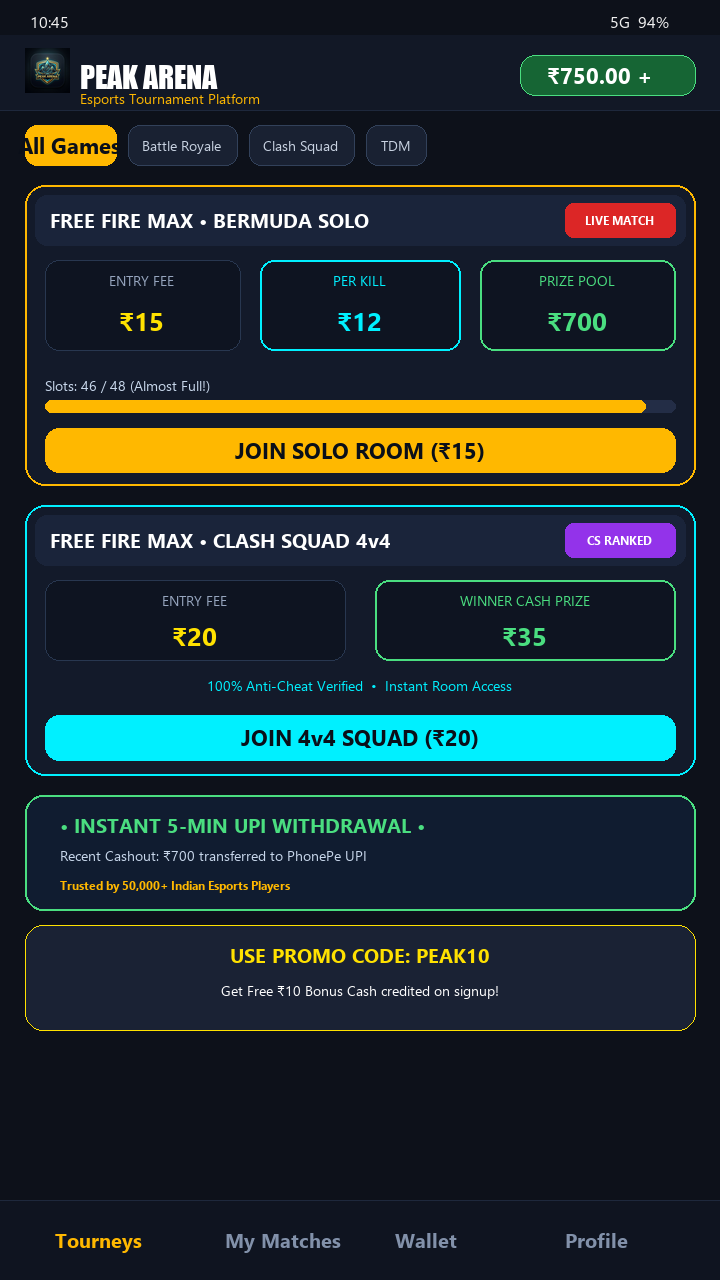
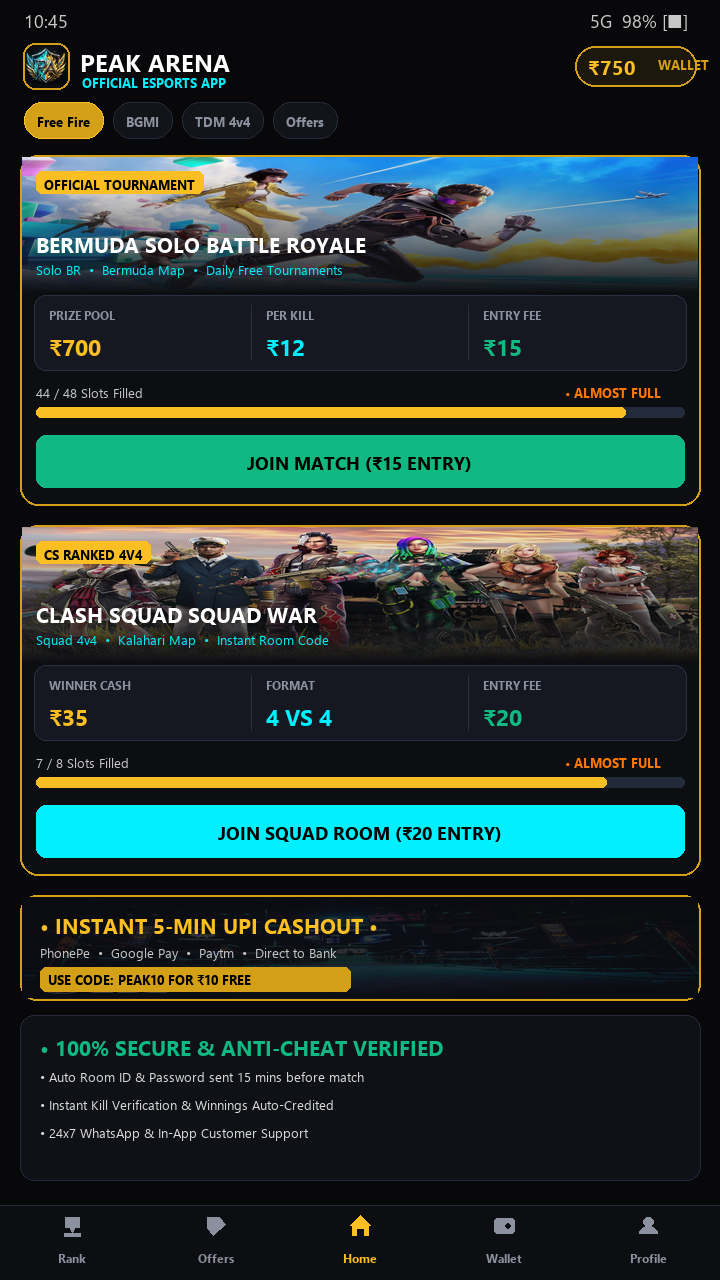
Match app screen 1:1 with real Flutter app assets and enforce edge-to-edge vertical gameplay with zero bars

diff --git a/generate_real_app_screen.py b/generate_real_app_screen.py
@@ -1,0 +1,225 @@
+import os
+from PIL import Image, ImageDraw, ImageFont
+
+BASE_DIR = os.path.dirname(os.path.abspath(__file__))
+ASSETS_DIR = os.path.join(BASE_DIR, "assets")
+OUTPUT_PATH = os.path.join(ASSETS_DIR, "peak_arena_app_screen.png")
+
+W, H = 720, 1280
+img = Image.new("RGBA", (W, H), (8, 8, 10, 255))
+draw = ImageDraw.Draw(img)
+
+font_dir = "C:/Windows/Fonts"
+font_bold = os.path.join(font_dir, "segoeuib.ttf") if os.path.exists(os.path.join(font_dir, "segoeuib.ttf")) else None
+font_reg = os.path.join(font_dir, "segoeui.ttf") if os.path.exists(os.path.join(font_dir, "segoeui.ttf")) else None
+
+if font_bold and font_reg:
+    f_status = ImageFont.truetype(font_reg, 18)
+    f_title = ImageFont.truetype(font_bold, 24)
+    f_wallet = ImageFont.truetype(font_bold, 20)
+    f_badge = ImageFont.truetype(font_bold, 13)
+    f_card_title = ImageFont.truetype(font_bold, 21)
+    f_label = ImageFont.truetype(font_bold, 12)
+    f_val_large = ImageFont.truetype(font_bold, 23)
+    f_btn = ImageFont.truetype(font_bold, 18)
+    f_sub = ImageFont.truetype(font_reg, 13)
+    f_nav = ImageFont.truetype(font_bold, 12)
+else:
+    f_status = f_title = f_wallet = f_badge = f_card_title = f_label = f_val_large = f_btn = f_sub = f_nav = ImageFont.load_default()
+
+# 1. Status Bar
+draw.text((24, 8), "10:45", fill=(200, 200, 200), font=f_status)
+draw.text((W - 130, 8), "5G  98% [■]", fill=(200, 200, 200), font=f_status)
+
+# 2. AppBar (36 - 98)
+logo_path = os.path.join(ASSETS_DIR, "logo.png")
+if os.path.exists(logo_path):
+    logo = Image.open(logo_path).convert("RGBA").resize((44, 44), Image.Resampling.LANCZOS)
+    mask = Image.new("L", (44, 44), 0)
+    ImageDraw.Draw(mask).rounded_rectangle((0, 0, 44, 44), radius=12, fill=255)
+    img.paste(logo, (24, 44), mask)
+    draw.rounded_rectangle([23, 43, 69, 89], radius=12, outline=(212, 160, 23), width=2)
+
+draw.text((80, 46), "PEAK ARENA", fill=(255, 255, 255), font=f_title)
+draw.text((82, 73), "OFFICIAL ESPORTS APP", fill=(0, 240, 255), font=f_badge)
+
+# Wallet pill
+w_box = [W - 145, 46, W - 24, 86]
+draw.rounded_rectangle(w_box, radius=20, fill=(28, 24, 12), outline=(212, 160, 23), width=2)
+draw.text((W - 132, 53), "₹750", fill=(251, 191, 36), font=f_wallet)
+draw.text((W - 62, 55), "WALLET", fill=(212, 160, 23), font=f_badge)
+
+# 3. Game category tabs (104 - 144)
+tabs = [("Free Fire", True), ("BGMI", False), ("TDM 4v4", False), ("Offers", False)]
+tx = 24
+for name, active in tabs:
+    tw = draw.textlength(name, font=f_badge) + 26
+    if active:
+        draw.rounded_rectangle([tx, 102, tx + tw, 138], radius=18, fill=(212, 160, 23), outline=(251, 191, 36), width=1)
+        draw.text((tx + 13, 112), name, fill=(0, 0, 0), font=f_badge)
+    else:
+        draw.rounded_rectangle([tx, 102, tx + tw, 138], radius=18, fill=(18, 20, 26), outline=(35, 43, 58), width=1)
+        draw.text((tx + 13, 112), name, fill=(139, 145, 158), font=f_badge)
+    tx += tw + 10
+
+# Helper to draw Tournament Poster Card
+def draw_tournament_card(card_y, banner_file, badge_txt, title, mode_txt, p1_lbl, p1_val, p1_col, p2_lbl, p2_val, p2_col, p3_lbl, p3_val, p3_col, slots_txt, slots_pct, btn_txt, btn_col):
+    card_h = 350
+    cx1, cy1, cx2, cy2 = 20, card_y, W - 20, card_y + card_h
+    card_w = cx2 - cx1
+
+    # Base card background
+    draw.rounded_rectangle([cx1, cy1, cx2, cy2], radius=18, fill=(13, 14, 18), outline=(212, 160, 23), width=2)
+
+    # Banner image with gradient
+    banner_path = os.path.join(ASSETS_DIR, banner_file)
+    banner_h = 135
+    if os.path.exists(banner_path):
+        banner = Image.open(banner_path).convert("RGBA").resize((card_w - 4, banner_h), Image.Resampling.LANCZOS)
+        grad = Image.new("RGBA", (card_w - 4, banner_h))
+        g_draw = ImageDraw.Draw(grad)
+        for y in range(banner_h):
+            alpha = int(255 * (y / banner_h) ** 1.3)
+            g_draw.line([(0, y), (card_w - 4, y)], fill=(13, 14, 18, alpha))
+        banner = Image.alpha_composite(banner, grad)
+        img.paste(banner, (cx1 + 2, cy1 + 2))
+
+    # Badge on banner
+    bw = draw.textlength(badge_txt, font=f_badge)
+    draw.rounded_rectangle([cx1 + 16, cy1 + 16, cx1 + 32 + bw, cy1 + 38], radius=6, fill=(251, 191, 36))
+    draw.text((cx1 + 24, cy1 + 20), badge_txt, fill=(0, 0, 0), font=f_badge)
+
+    draw.text((cx1 + 16, cy1 + 75), title, fill=(255, 255, 255), font=f_card_title)
+    draw.text((cx1 + 16, cy1 + 105), mode_txt, fill=(0, 240, 255), font=f_sub)
+
+    # 3-Stat Container Box
+    bx1, by1, bx2, by2 = cx1 + 14, cy1 + 140, cx2 - 14, cy1 + 215
+    draw.rounded_rectangle([bx1, by1, bx2, by2], radius=12, fill=(21, 24, 33), outline=(40, 48, 65), width=1)
+
+    col_w = (bx2 - bx1) // 3
+    # Stat 1
+    draw.text((bx1 + 15, by1 + 12), p1_lbl, fill=(139, 145, 158), font=f_label)
+    draw.text((bx1 + 15, by1 + 36), p1_val, fill=p1_col, font=f_val_large)
+    draw.line([(bx1 + col_w, by1 + 10), (bx1 + col_w, by2 - 10)], fill=(40, 48, 65), width=1)
+
+    # Stat 2
+    draw.text((bx1 + col_w + 15, by1 + 12), p2_lbl, fill=(139, 145, 158), font=f_label)
+    draw.text((bx1 + col_w + 15, by1 + 36), p2_val, fill=p2_col, font=f_val_large)
+    draw.line([(bx1 + 2 * col_w, by1 + 10), (bx1 + 2 * col_w, by2 - 10)], fill=(40, 48, 65), width=1)
+
+    # Stat 3
+    draw.text((bx1 + 2 * col_w + 15, by1 + 12), p3_lbl, fill=(139, 145, 158), font=f_label)
+    draw.text((bx1 + 2 * col_w + 15, by1 + 36), p3_val, fill=p3_col, font=f_val_large)
+
+    # Slots Progress Bar
+    draw.text((cx1 + 16, cy1 + 228), slots_txt, fill=(200, 200, 200), font=f_sub)
+    draw.text((cx2 - 135, cy1 + 228), "• ALMOST FULL", fill=(255, 120, 0), font=f_badge)
+    
+    px1, py1, px2, py2 = cx1 + 16, cy1 + 252, cx2 - 16, cy1 + 262
+    draw.rounded_rectangle([px1, py1, px2, py2], radius=5, fill=(35, 43, 58))
+    fill_w = int((px2 - px1) * slots_pct)
+    draw.rounded_rectangle([px1, py1, px1 + fill_w, py2], radius=5, fill=(251, 191, 36))
+
+    # Join Match CTA Button
+    btn_x1, btn_y1, btn_x2, btn_y2 = cx1 + 16, cy1 + 280, cx2 - 16, cy1 + 332
+    draw.rounded_rectangle([btn_x1, btn_y1, btn_x2, btn_y2], radius=10, fill=btn_col)
+    btn_w = draw.textlength(btn_txt, font=f_btn)
+    draw.text((btn_x1 + (btn_x2 - btn_x1 - btn_w) // 2, btn_y1 + 15), btn_txt, fill=(0, 0, 0), font=f_btn)
+
+# Card 1: Solo BR
+draw_tournament_card(
+    card_y=155,
+    banner_file="freefire_br.jpg",
+    badge_txt="OFFICIAL TOURNAMENT",
+    title="BERMUDA SOLO BATTLE ROYALE",
+    mode_txt="Solo BR  •  Bermuda Map  •  Daily Free Tournaments",
+    p1_lbl="PRIZE POOL", p1_val="₹700", p1_col=(251, 191, 36),
+    p2_lbl="PER KILL", p2_val="₹12", p2_col=(0, 240, 255),
+    p3_lbl="ENTRY FEE", p3_val="₹15", p3_col=(16, 185, 129),
+    slots_txt="44 / 48 Slots Filled",
+    slots_pct=0.91,
+    btn_txt="JOIN MATCH (₹15 ENTRY)",
+    btn_col=(16, 185, 129)
+)
+
+# Card 2: Clash Squad 4v4
+draw_tournament_card(
+    card_y=525,
+    banner_file="freefire_cs.jpg",
+    badge_txt="CS RANKED 4V4",
+    title="CLASH SQUAD SQUAD WAR",
+    mode_txt="Squad 4v4  •  Kalahari Map  •  Instant Room Code",
+    p1_lbl="WINNER CASH", p1_val="₹35", p1_col=(251, 191, 36),
+    p2_lbl="FORMAT", p2_val="4 VS 4", p2_col=(0, 240, 255),
+    p3_lbl="ENTRY FEE", p3_val="₹20", p3_col=(16, 185, 129),
+    slots_txt="7 / 8 Slots Filled",
+    slots_pct=0.88,
+    btn_txt="JOIN SQUAD ROOM (₹20 ENTRY)",
+    btn_col=(0, 240, 255)
+)
+
+# 5. Promo & Instant UPI Banner (895 - 1000)
+ub_x1, ub_y1, ub_x2, ub_y2 = 20, 895, W - 20, 1000
+draw.rounded_rectangle([ub_x1, ub_y1, ub_x2, ub_y2], radius=16, fill=(18, 20, 28), outline=(212, 160, 23), width=2)
+hero_path = os.path.join(ASSETS_DIR, "hero_banner.jpg")
+if os.path.exists(hero_path):
+    hero = Image.open(hero_path).convert("RGBA").resize((ub_x2 - ub_x1 - 4, ub_y2 - ub_y1 - 4), Image.Resampling.LANCZOS)
+    h_grad = Image.new("RGBA", (ub_x2 - ub_x1 - 4, ub_y2 - ub_y1 - 4))
+    hg_draw = ImageDraw.Draw(h_grad)
+    for y in range(ub_y2 - ub_y1 - 4):
+        hg_draw.line([(0, y), (ub_x2 - ub_x1 - 4, y)], fill=(12, 14, 20, 215))
+    hero = Image.alpha_composite(hero, h_grad)
+    img.paste(hero, (ub_x1 + 2, ub_y1 + 2))
+
+draw.text((ub_x1 + 20, ub_y1 + 16), "• INSTANT 5-MIN UPI CASHOUT •", fill=(251, 191, 36), font=f_card_title)
+draw.text((ub_x1 + 20, ub_y1 + 48), "PhonePe  •  Google Pay  •  Paytm  •  Direct to Bank", fill=(200, 200, 200), font=f_sub)
+draw.rounded_rectangle([ub_x1 + 20, ub_y1 + 72, ub_x1 + 330, ub_y1 + 96], radius=6, fill=(212, 160, 23))
+draw.text((ub_x1 + 28, ub_y1 + 75), "USE CODE: PEAK10 FOR ₹10 FREE", fill=(0, 0, 0), font=f_badge)
+
+# Trust badge (1015 - 1180)
+tb_x1, tb_y1, tb_x2, tb_y2 = 20, 1015, W - 20, 1180
+draw.rounded_rectangle([tb_x1, tb_y1, tb_x2, tb_y2], radius=14, fill=(15, 17, 23), outline=(35, 43, 58), width=1)
+draw.text((tb_x1 + 20, tb_y1 + 18), "• 100% SECURE & ANTI-CHEAT VERIFIED", fill=(16, 185, 129), font=f_card_title)
+draw.text((tb_x1 + 20, tb_y1 + 52), "• Auto Room ID & Password sent 15 mins before match", fill=(220, 220, 220), font=f_sub)
+draw.text((tb_x1 + 20, tb_y1 + 80), "• Instant Kill Verification & Winnings Auto-Credited", fill=(220, 220, 220), font=f_sub)
+draw.text((tb_x1 + 20, tb_y1 + 108), "• 24x7 WhatsApp & In-App Customer Support", fill=(220, 220, 220), font=f_sub)
+
+# 6. Bottom Navigation Bar (1200 - 1280) with clean drawn vector icons
+nav_y = 1205
+draw.rectangle([0, nav_y, W, H], fill=(13, 14, 18))
+draw.line([(0, nav_y), (W, nav_y)], fill=(35, 43, 58), width=1)
+
+nav_tabs = ["Rank", "Offers", "Home", "Wallet", "Profile"]
+nw = W // 5
+
+def draw_vector_icon(idx, active):
+    cx = idx * nw + nw // 2
+    cy = nav_y + 20
+    col = (251, 191, 36) if active else (139, 145, 158)
+    if idx == 0: # Trophy
+        draw.rectangle([cx - 7, cy - 8, cx + 7, cy + 2], fill=col)
+        draw.polygon([(cx - 3, cy + 2), (cx + 3, cy + 2), (cx, cy + 8)], fill=col)
+        draw.rectangle([cx - 8, cy + 8, cx + 8, cy + 11], fill=col)
+    elif idx == 1: # Offers Tag
+        draw.polygon([(cx - 9, cy - 8), (cx + 3, cy - 8), (cx + 9, cy - 1), (cx - 3, cy + 10), (cx - 9, cy + 3)], fill=col)
+    elif idx == 2: # Home
+        draw.polygon([(cx, cy - 10), (cx - 10, cy), (cx + 10, cy)], fill=col)
+        draw.rectangle([cx - 8, cy, cx + 8, cy + 10], fill=col)
+        draw.rectangle([cx - 3, cy + 4, cx + 3, cy + 10], fill=(13, 14, 18))
+    elif idx == 3: # Wallet
+        draw.rounded_rectangle([cx - 10, cy - 7, cx + 10, cy + 8], radius=3, fill=col)
+        draw.ellipse([cx + 1, cy - 2, cx + 6, cy + 3], fill=(13, 14, 18))
+    elif idx == 4: # Profile
+        draw.ellipse([cx - 5, cy - 8, cx + 5, cy + 1], fill=col)
+        draw.pieslice([cx - 9, cy + 1, cx + 9, cy + 15], 180, 360, fill=col)
+
+for i, name in enumerate(nav_tabs):
+    active = (i == 2)
+    draw_vector_icon(i, active)
+    nx = i * nw + nw // 2
+    col = (251, 191, 36) if active else (139, 145, 158)
+    tw = draw.textlength(name, font=f_nav)
+    draw.text((nx - tw // 2, nav_y + 45), name, fill=col, font=f_nav)
+
+img.save(OUTPUT_PATH, "PNG", quality=95)
+print(f"Updated Peak Arena App Screen: {OUTPUT_PATH}")

diff --git a/auto_reel_hijacker.py b/auto_reel_hijacker.py
@@ -69,11 +69,11 @@ def hijack_video(video_path, output_name="PeakArena_Hijacked_Reel.mp4"):
     print(f"[*] Audio Inpainting Delay: {punch_delay_ms}ms")
 
     filter_complex = (
-        "[0:v]scale=720:1280:force_original_aspect_ratio=decrease,pad=720:1280:(ow-iw)/2:(oh-ih)/2:color=black,fps=30[vid_raw];"
+        "[0:v]scale=720:1280:force_original_aspect_ratio=increase,crop=720:1280,fps=30[vid_raw];"
         "[1:v]scale=720:1280:flags=lanczos,fps=30[app_screen];"
         f"[vid_raw][app_screen]overlay=0:0:enable='between(t,{app_start},{app_end})'[v];"
         "[0:a]volume=1.0[orig_a];"
-        f"[2:a]adelay={punch_delay_ms}|{punch_delay_ms},volume=1.3[punch_a];"
+        f"[2:a]adelay={punch_delay_ms}|{punch_delay_ms},volume=1.4[punch_a];"
         "[orig_a][punch_a]amix=inputs=2:duration=first:dropout_transition=1[a]"
     )
 
